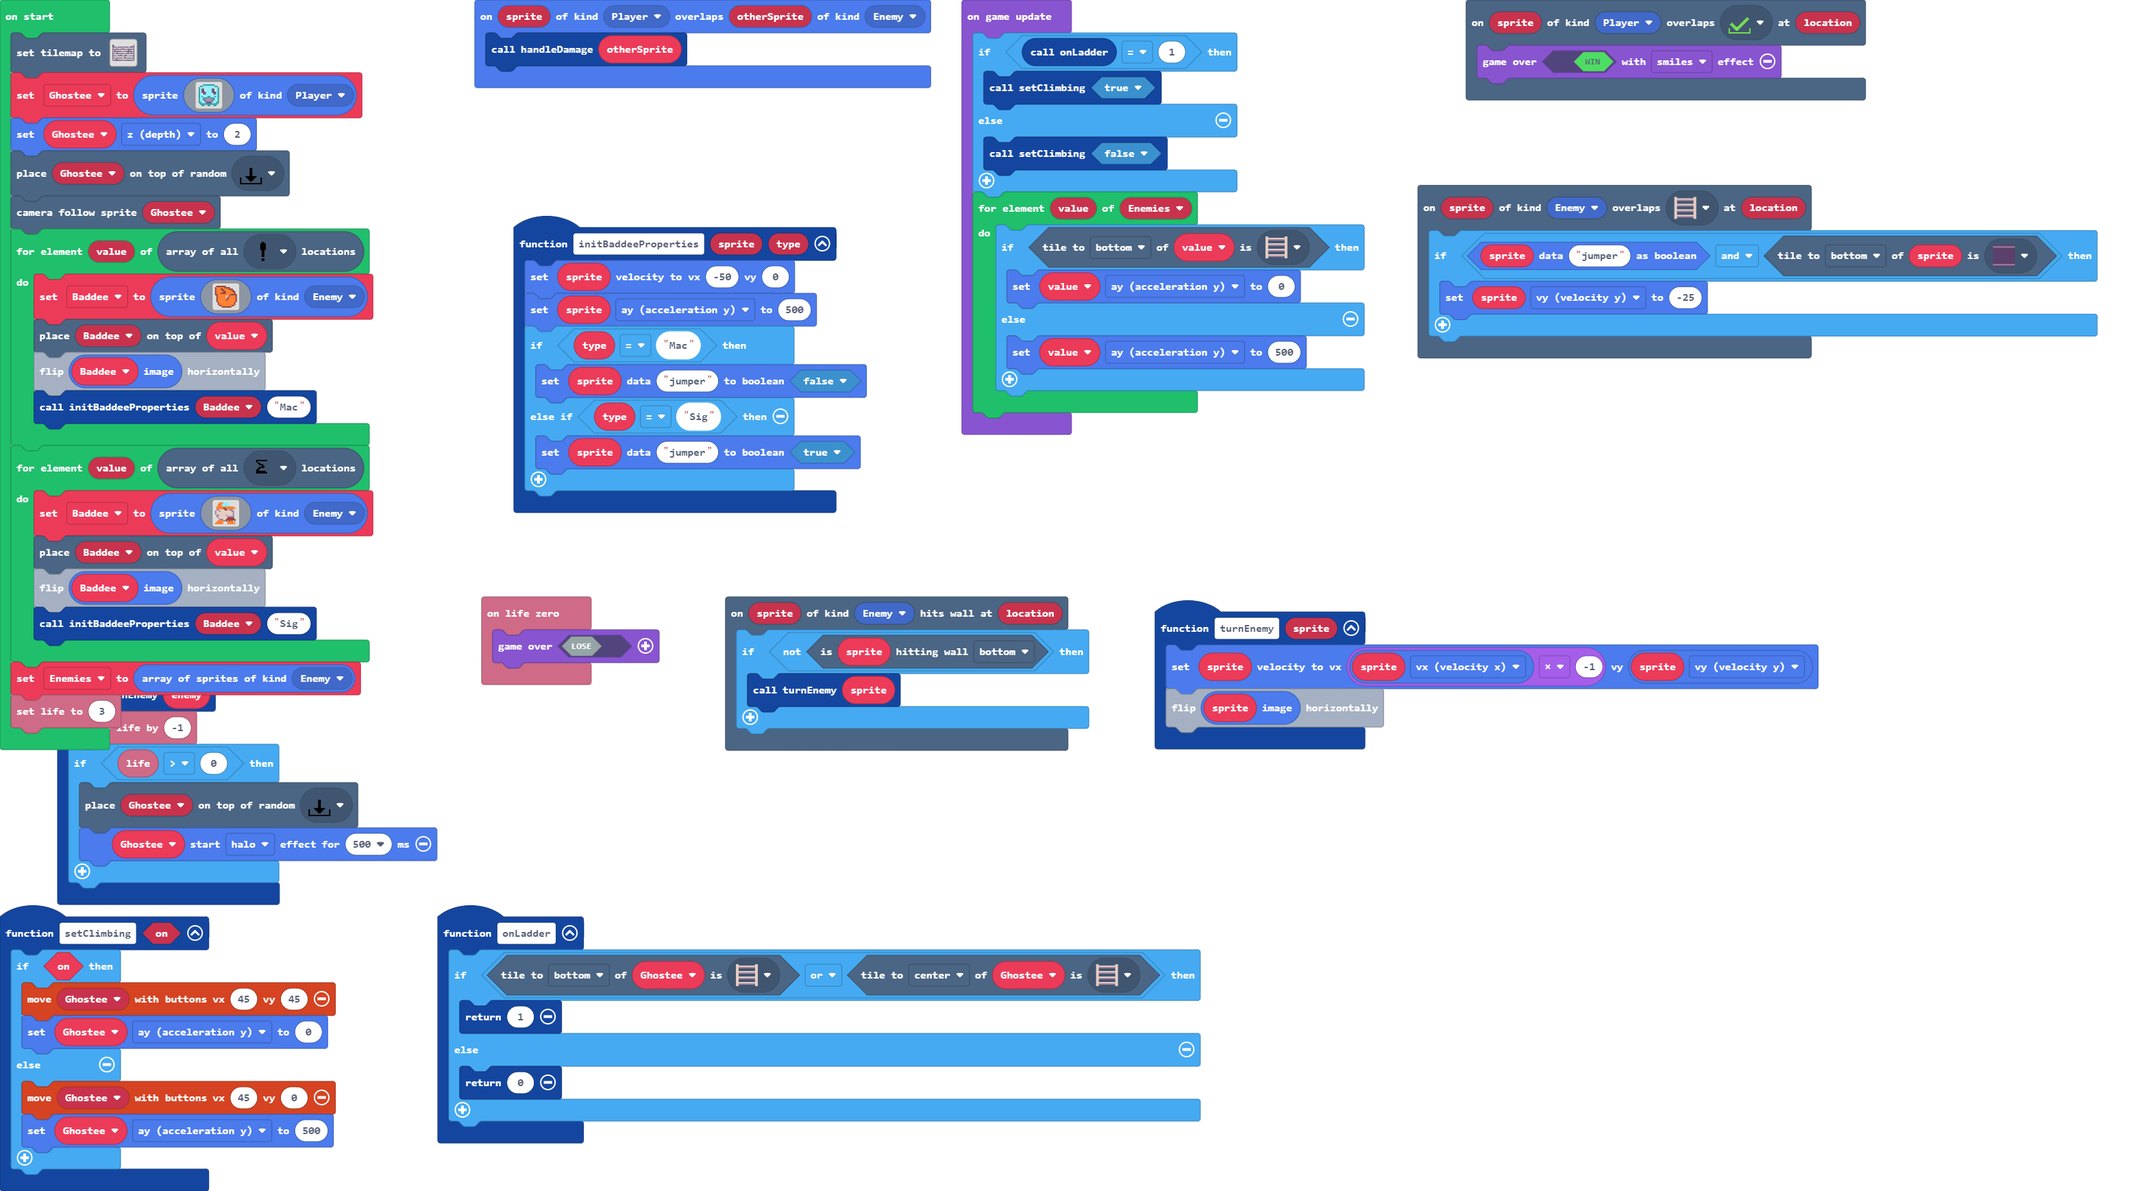
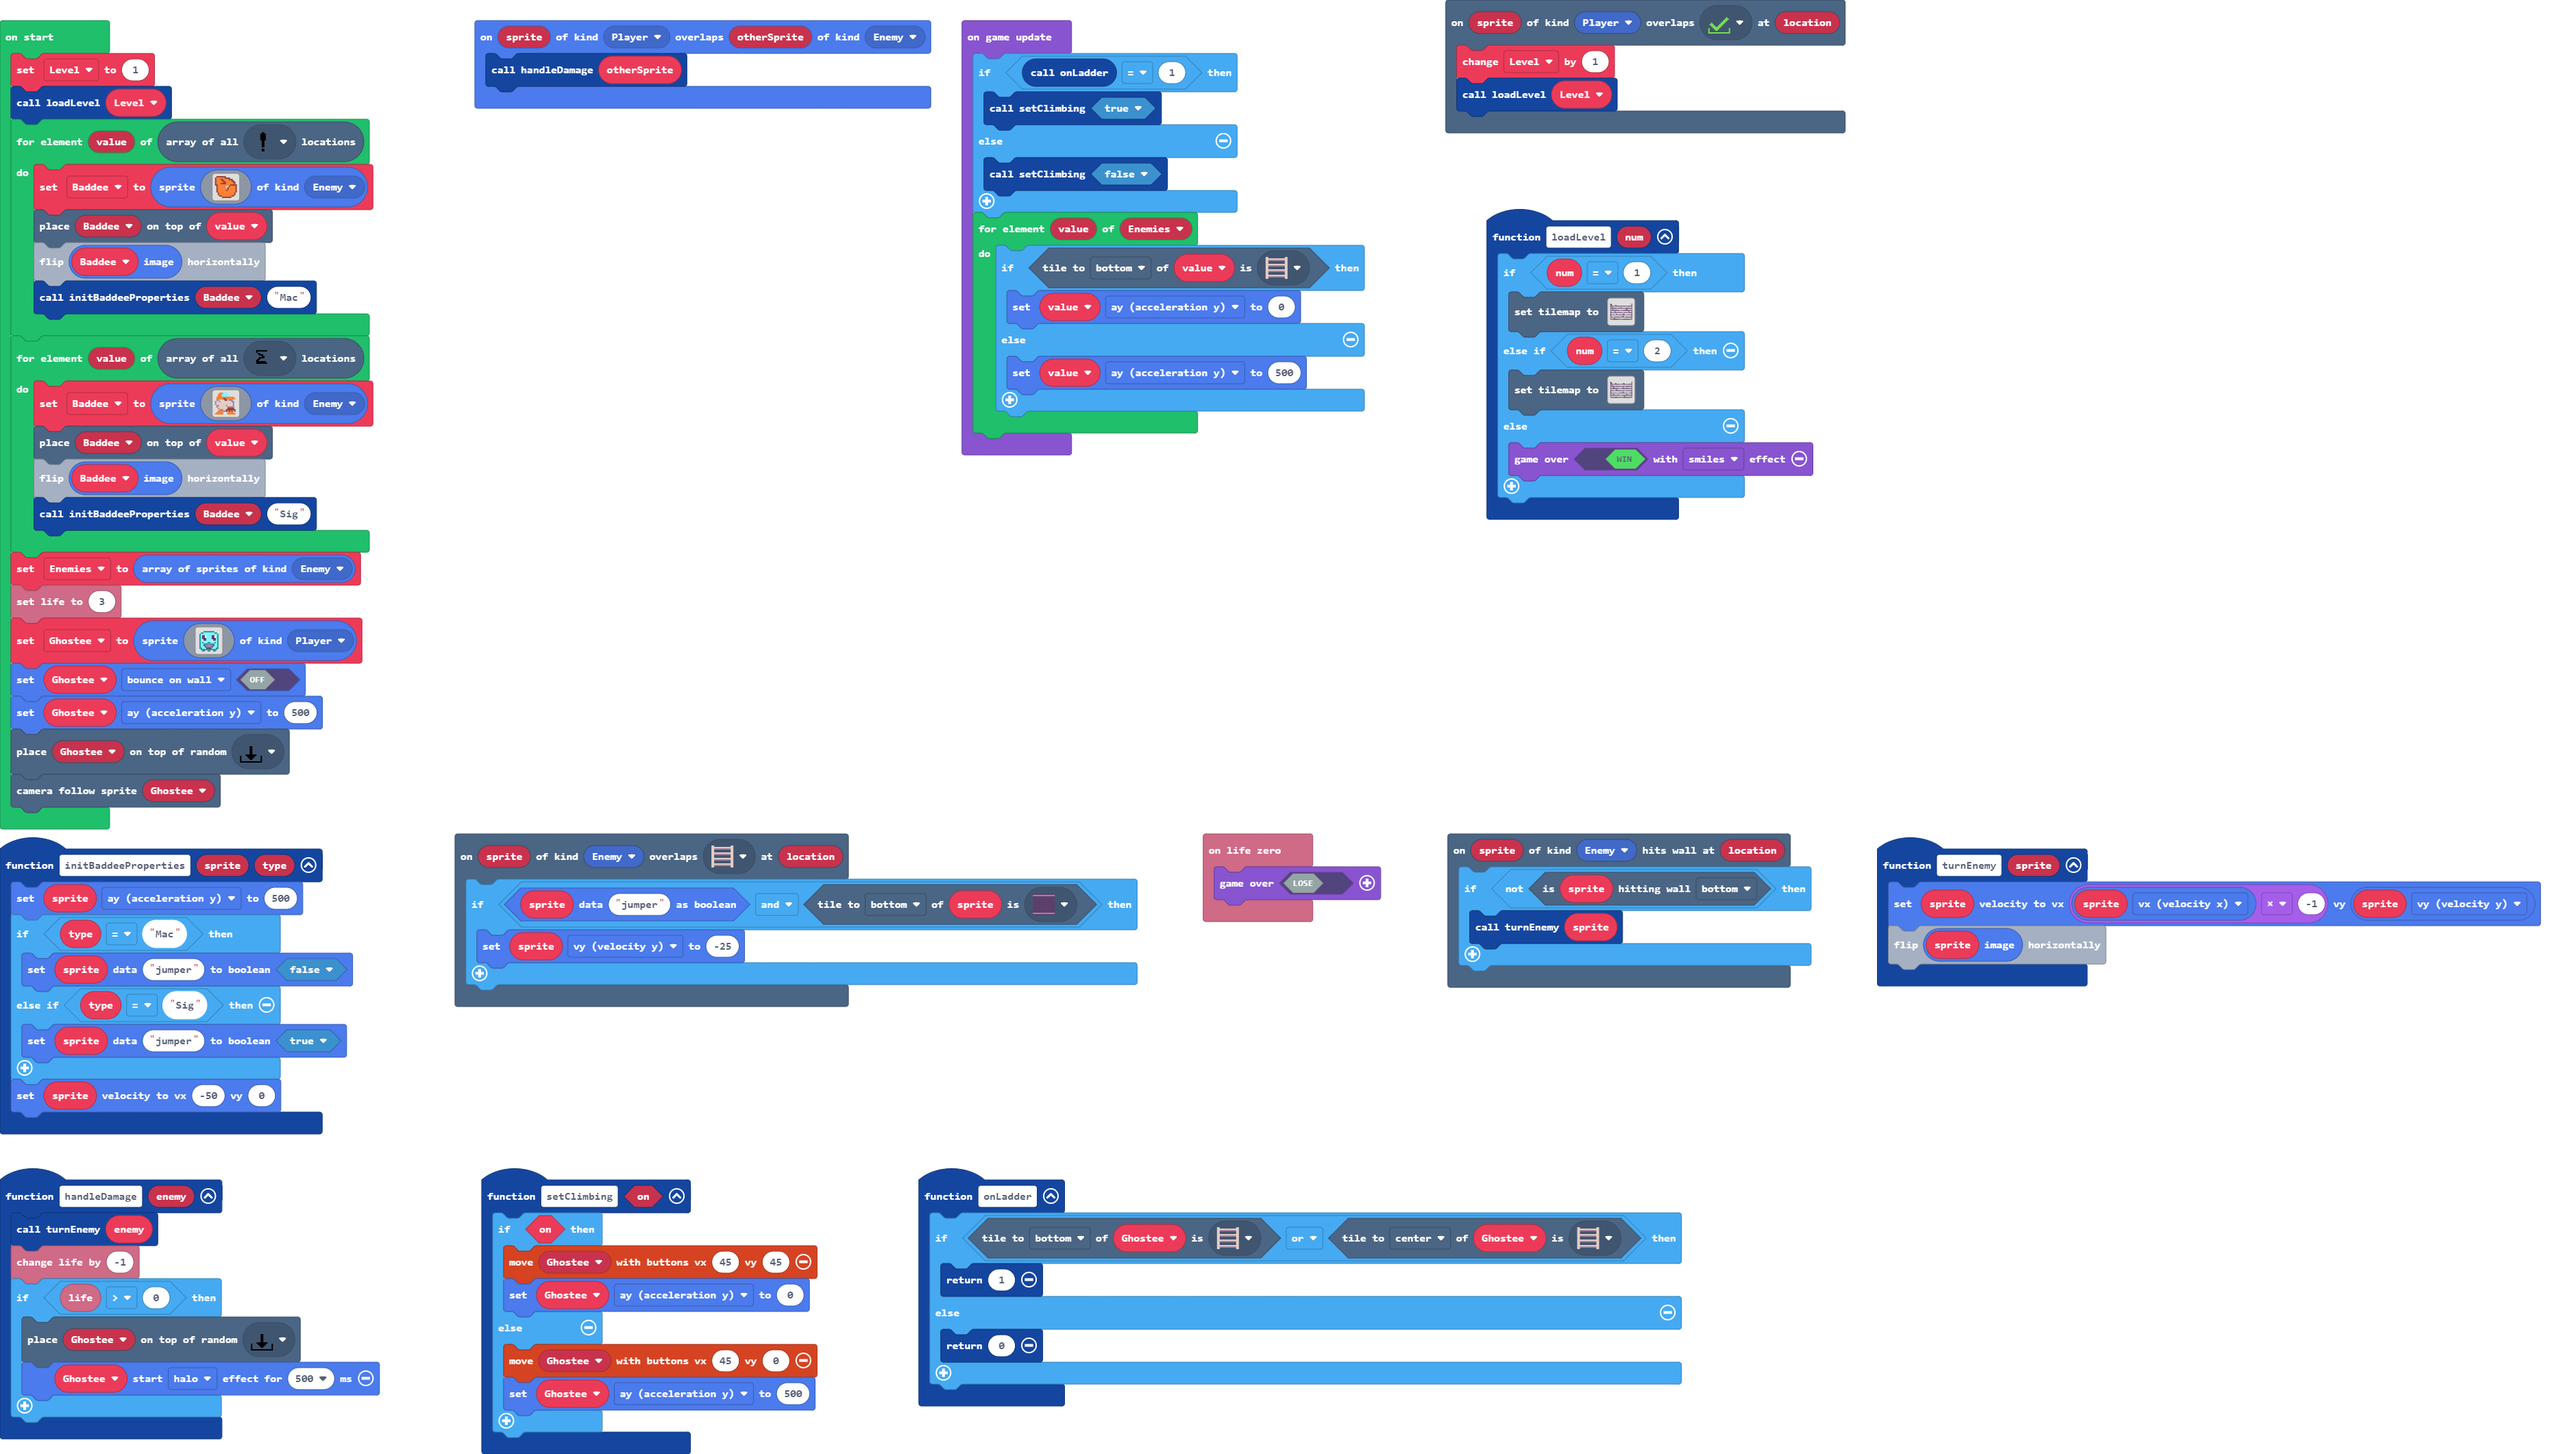
Two Levels

diff --git a/main.ts b/main.ts
@@ -2,7 +2,8 @@ namespace SpriteKind {
     export const Enemy_MacPain = SpriteKind.create()
 }
 scene.onOverlapTile(SpriteKind.Player, myTiles.tile3, function (sprite, location) {
-    game.over(true, effects.smiles)
+    Level += 1
+    loadLevel(Level)
 })
 function handleDamage (enemy: Sprite) {
     turnEnemy(enemy)
@@ -13,13 +14,13 @@ function handleDamage (enemy: Sprite) {
     }
 }
 function initBaddeeProperties (sprite: Sprite, _type: string) {
-    sprite.setVelocity(-50, 0)
     sprite.ay = 500
     if (_type == "Mac") {
         sprites.setDataBoolean(sprite, "jumper", false)
     } else if (_type == "Sig") {
         sprites.setDataBoolean(sprite, "jumper", true)
     }
+    sprite.setVelocity(-50, 0)
 }
 scene.onOverlapTile(SpriteKind.Enemy, myTiles.tile5, function (sprite, location) {
     if (sprites.readDataBoolean(sprite, "jumper") && sprite.tileKindAt(TileDirection.Bottom, myTiles.tile1)) {
@@ -33,6 +34,38 @@ function setClimbing (on: boolean) {
     } else {
         controller.moveSprite(Ghostee, 45, 0)
         Ghostee.ay = 500
+    }
+}
+function loadLevel (num: number) {
+    if (num == 1) {
+        tiles.setTilemap(tilemap`level_0`)
+    } else if (num == 2) {
[1 lines of base64/hex data omitted]
+            2............................2
+            2............................2
+            22...........................2
+            22222.2222222.22222222.2222222
+            2............................2
+            2............................2
+            2222222.222222222222.222222222
+            2............................2
+            2............................2
+            2222222222222.2222222222222222
+            2............................2
+            2............................2
+            222222.2222222222222.222222222
+            2............................2
+            2............................2
+            2222222222.2222222222222.22222
+            2............................2
+            2............................2
+            22222222222222.222222222222222
+            2............................2
+            2............................2
+            222222222222222222222222222222
+            `, [myTiles.transparency16,myTiles.tile1,myTiles.tile2,myTiles.tile3,myTiles.tile4,myTiles.tile5,myTiles.tile11], TileScale.Sixteen))
+    } else {
+        game.over(true, effects.smiles)
     }
 }
 scene.onHitWall(SpriteKind.Enemy, function (sprite, location) {
@@ -57,29 +90,11 @@ function turnEnemy (sprite: Sprite) {
 sprites.onOverlap(SpriteKind.Player, SpriteKind.Enemy, function (sprite, otherSprite) {
     handleDamage(otherSprite)
 })
-let Baddee: Sprite = null
 let Ghostee: Sprite = null
-tiles.setTilemap(tilemap`level_0`)
-Ghostee = sprites.create(img`
-    . . . 6 6 6 6 6 6 6 6 . . . 
-    . 6 6 9 9 9 9 9 9 9 9 6 6 . 
-    6 9 9 9 9 9 9 9 9 9 9 9 9 6 
-    6 9 c c 1 9 9 9 9 c c 1 9 6 
-    6 9 c c 1 9 9 9 9 c c 1 9 6 
-    6 9 c c c 9 9 9 9 c c c 9 6 
-    6 9 1 c c 9 9 9 9 1 c c 9 6 
-    6 9 9 9 9 9 9 9 9 9 9 9 9 6 
-    6 9 6 9 9 9 6 6 9 9 9 6 9 6 
-    6 9 9 6 6 6 b b 6 6 6 9 9 6 
-    6 9 9 c b b b b b b c 9 9 6 
-    6 9 9 9 c b b b b c 9 9 9 6 
-    6 6 9 9 9 c c c c 9 9 9 6 6 
-    . 6 6 6 6 6 6 6 6 6 6 6 6 . 
-    . . 6 6 . . 6 6 . . 6 6 . . 
-    `, SpriteKind.Player)
-Ghostee.z = 2
-tiles.placeOnRandomTile(Ghostee, myTiles.tile2)
-scene.cameraFollowSprite(Ghostee)
+let Baddee: Sprite = null
+let Level = 0
+Level = 1
+loadLevel(Level)
 for (let value of tiles.getTilesByType(myTiles.tile4)) {
     Baddee = sprites.create(img`
         . e e e e e e e . . . . . . . . 
@@ -128,6 +143,28 @@ for (let value of tiles.getTilesByType(myTiles.tile11)) {
 }
 let Enemies = sprites.allOfKind(SpriteKind.Enemy)
 info.setLife(3)
+Ghostee = sprites.create(img`
+    . . . . . . . . . . . . . . . . 
+    . . . . 6 6 6 6 6 6 6 6 . . . . 
+    . . 6 6 9 9 9 9 9 9 9 9 6 6 . . 
+    . 6 9 9 9 9 9 9 9 9 9 9 9 9 6 . 
+    . 6 9 c c 1 9 9 9 9 c c 1 9 6 . 
+    . 6 9 c c 1 9 9 9 9 c c 1 9 6 . 
+    . 6 9 c c c 9 9 9 9 c c c 9 6 . 
+    . 6 9 1 c c 9 9 9 9 1 c c 9 6 . 
+    . 6 9 9 9 9 9 9 9 9 9 9 9 9 6 . 
+    . 6 9 6 9 9 9 6 6 9 9 9 6 9 6 . 
+    . 6 9 9 6 6 6 b b 6 6 6 9 9 6 . 
+    . 6 9 9 c b b b b b b c 9 9 6 . 
+    . 6 9 9 9 c b b b b c 9 9 9 6 . 
+    . 6 6 9 9 9 c c c c 9 9 9 6 6 . 
+    . . 6 6 6 6 6 6 6 6 6 6 6 6 . . 
+    . . . 6 6 . . 6 6 . . 6 6 . . . 
+    `, SpriteKind.Player)
+Ghostee.setFlag(SpriteFlag.BounceOnWall, false)
+Ghostee.ay = 500
+tiles.placeOnRandomTile(Ghostee, myTiles.tile2)
+scene.cameraFollowSprite(Ghostee)
 game.onUpdate(function () {
     if (onLadder() == 1) {
         setClimbing(true)

diff --git a/tilemap.g.ts b/tilemap.g.ts
@@ -51,7 +51,7 @@ namespace myTiles {
 2............................2
 222222222222222222222222222222
 `, [myTiles.transparency16,myTiles.tile1,myTiles.tile2,myTiles.tile3,myTiles.tile4,myTiles.tile7,myTiles.tile8,myTiles.tile9,myTiles.tile10,myTiles.tile5,myTiles.tile6], TileScale.Sixteen)
[2 lines of base64/hex data omitted]
 2............................2
 2............................2
 22...........................2
@@ -70,11 +70,35 @@ namespace myTiles {
 2222222.2222222222222.22222222
 2............................2
 2............................2
-2222.222222222.2222.2222222222
+2222.22222222222222.2222222222
 2............................2
 2............................2
 222222222222222222222222222222
-`, [myTiles.transparency16,myTiles.tile1,myTiles.tile2,myTiles.tile3,myTiles.tile4,myTiles.tile5,myTiles.tile11], TileScale.Sixteen)
+`, [myTiles.transparency16,myTiles.tile1,myTiles.tile2,myTiles.tile3,myTiles.tile4,myTiles.tile5], TileScale.Sixteen)
[1 lines of base64/hex data omitted]
+2............................2
+2............................2
+22...........................2
+222222222222222222222222222222
+2............................2
+2............................2
+222222222222222222222222222222
+2............................2
+2............................2
+222222222222222222222222222222
+2............................2
+2............................2
+222222222222222222222222222222
+2............................2
+2............................2
+222222222222222222222222222222
+2............................2
+2............................2
+222222222222222222222222222222
+2............................2
+2............................2
+222222222222222222222222222222
+`, [myTiles.transparency16,myTiles.tile1,myTiles.tile2,myTiles.tile3], TileScale.Sixteen)
         }
         return null;
     })
